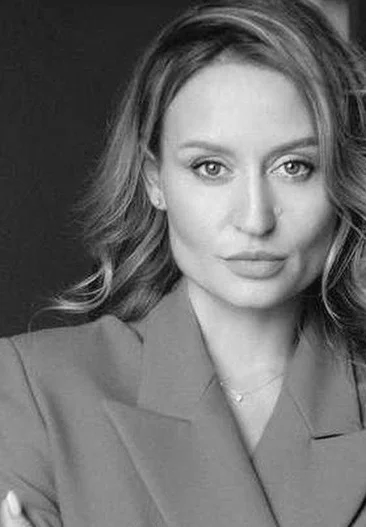
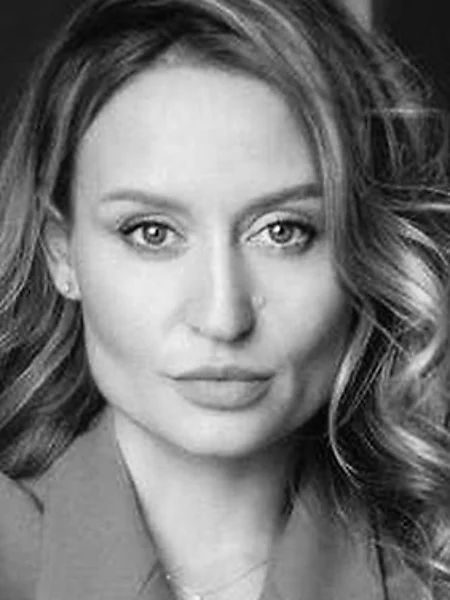
Девичник: квадратная карусель площадки с кадрированием по лицам, «Другие форматы» плитками 2×2, бренды по 3, эксперты на телефоне выше и фото целиком в окне, организаторы — лица в одном масштабе

diff --git a/src/pages/Wellness.tsx b/src/pages/Wellness.tsx
@@ -97,10 +97,10 @@ const lectures = [
 ];
 
 const otherFormats = [
-  { title: "Тренировки", note: "Либидо-фитнес, сильное тело, медитация с поющими чашами", href: "#experts" },
-  { title: "Экспо", note: "Бренды и сервисы заботы о себе", href: "#brands" },
-  { title: "Игристое со стилистом", note: "24 октября, накануне девичника", href: "#october-24" },
-  { title: "Public talk", note: "«Героини нового велнеса»", href: undefined },
+  { icon: Dumbbell, title: "Тренировки", note: "Либидо-фитнес, сильное тело, медитация с поющими чашами", href: "#experts" },
+  { icon: ShoppingBag, title: "Экспо", note: "Бренды и сервисы заботы о себе", href: "#brands" },
+  { icon: Wine, title: "Игристое со стилистом", note: "24 октября, накануне девичника", href: "#october-24" },
+  { icon: Mic, title: "Public talk", note: "«Героини нового велнеса»", href: undefined },
 ];
 
 type Expert = {
@@ -167,11 +167,11 @@ const experts: Expert[] = [
 // Для остальных официальный логотип не нашёлся — аккуратный вордмарк. «Сбер Здоровье» — на всю ширину.
 const brands: { name: string; logo?: string; logoClass?: string }[] = [
   { name: "Абрау-Дюрсо" },
-  { name: "Natura Siberica", logo: naturaSibericaLogo, logoClass: "h-9 md:h-11" },
+  { name: "Natura Siberica", logo: naturaSibericaLogo, logoClass: "h-6 sm:h-9 md:h-11" },
   { name: "Smartlife" },
   { name: "Vita Strada" },
   { name: "DEEP" },
-  { name: "refeel", logo: refeelLogo, logoClass: "h-8 md:h-10" },
+  { name: "refeel", logo: refeelLogo, logoClass: "h-6 sm:h-8 md:h-10" },
   { name: "Сбер Здоровье", logo: sberHealthLogo },
 ];
 const brandCategories = [
@@ -465,26 +465,30 @@ const Wellness = () => {
                 ))}
               </div>
             </div>
-            {/* Другие форматы */}
-            <div>
+            {/* Другие форматы: плитки 2×2, по высоте вровень с лекторием */}
+            <div className="flex flex-col">
               <p className="font-body text-xs uppercase tracking-[0.3em] text-primary mb-4">Другие форматы</p>
-              <div className="divide-y divide-border border-y border-border">
+              <div className="grid grid-cols-2 lg:grid-rows-2 gap-3 flex-1">
                 {otherFormats.map((f, i) => {
                   const inner = (
                     <>
-                      <span>
-                        <span className="block font-display text-2xl text-foreground leading-tight">{f.title}</span>
-                        <span className="block font-body text-sm text-muted-foreground mt-1">{f.note}</span>
+                      <span className="flex items-start justify-between gap-2 mb-auto">
+                        <IconCircle icon={f.icon} />
+                        {f.href && <ArrowRight className="w-4 h-4 text-primary mt-1 transition-transform group-hover:translate-x-1" />}
                       </span>
-                      {f.href && <ArrowRight className="w-4 h-4 text-primary shrink-0 transition-transform group-hover:translate-x-1" />}
+                      <span className="block mt-5">
+                        <span className="block font-display text-lg md:text-xl text-foreground leading-tight">{f.title}</span>
+                        <span className="block font-body text-xs md:text-sm text-muted-foreground mt-1 leading-snug">{f.note}</span>
+                      </span>
                     </>
                   );
+                  const cls = "group h-full flex flex-col bg-card border border-border rounded-2xl p-4 md:p-5 transition-colors";
                   return (
-                    <motion.div key={f.title} {...fadeUp} transition={{ duration: 0.5, delay: 0.06 * i }}>
+                    <motion.div key={f.title} {...fadeUp} transition={{ duration: 0.5, delay: 0.06 * i }} className="h-full">
                       {f.href ? (
-                        <a href={f.href} className="group flex items-center justify-between gap-4 py-5 md:py-6">{inner}</a>
+                        <a href={f.href} className={`${cls} hover:border-primary/40`}>{inner}</a>
                       ) : (
-                        <div className="flex items-center justify-between gap-4 py-5 md:py-6">{inner}</div>
+                        <div className={cls}>{inner}</div>
                       )}
                     </motion.div>
                   );
@@ -504,7 +508,7 @@ const Wellness = () => {
                 <motion.div key={e.surname} {...fadeUp}>
                   {/* Телефон: плитка 2×2, описание — по нажатию */}
                   <button type="button" onClick={() => setOpenExpert(e)} className="sm:hidden block w-full text-left">
-                    <span className="relative block aspect-[3/4] rounded-2xl overflow-hidden bg-muted">
+                    <span className="relative block aspect-[3/5] rounded-2xl overflow-hidden bg-muted">
                       <img src={e.photo} alt={`${e.name} ${e.surname}`} loading="lazy" className="absolute inset-0 w-full h-full object-cover object-top" />
                       <span className="absolute inset-0 bg-gradient-to-t from-warm-black/80 via-transparent to-transparent" />
                       <span className="absolute left-3 right-3 bottom-3">
@@ -543,8 +547,8 @@ const Wellness = () => {
               <DialogContent className="max-w-md w-[calc(100%-2rem)] max-h-[88vh] overflow-y-auto p-0 gap-0 rounded-2xl">
                 {openExpert && (
                   <>
-                    <div className="relative aspect-[4/5]">
-                      <img src={openExpert.photo} alt={`${openExpert.name} ${openExpert.surname}`} className="absolute inset-0 w-full h-full object-cover object-top" />
+                    <div className="relative">
+                      <img src={openExpert.photo} alt={`${openExpert.name} ${openExpert.surname}`} className="block w-full h-auto" />
                       <div className="absolute inset-0 bg-gradient-to-t from-warm-black/80 via-transparent to-transparent" />
                       <div className="absolute left-5 bottom-5">
                         <span className="inline-block font-body text-[10px] uppercase tracking-[0.2em] text-primary-foreground bg-primary rounded-full px-3 py-1 mb-3">Спикер</span>
@@ -578,7 +582,7 @@ const Wellness = () => {
                   (предварительный состав)
                 </p>
               </motion.div>
-              <div className="grid grid-cols-2 sm:grid-cols-4 gap-3 mb-3">
+              <div className="grid grid-cols-3 gap-2 md:gap-3 mb-3">
                 {brands.map((b, i) =>
                   b.name === "Сбер Здоровье" ? (
                     <motion.div
@@ -594,12 +598,12 @@ const Wellness = () => {
                       key={b.name}
                       {...fadeUp}
                       transition={{ duration: 0.4, delay: 0.04 * i }}
-                      className="aspect-[3/2] bg-card border border-border rounded-xl flex items-center justify-center text-center px-3 hover:border-primary/40 transition-colors"
+                      className="aspect-[3/2] bg-card border border-border rounded-xl flex items-center justify-center text-center px-2 md:px-3 hover:border-primary/40 transition-colors"
                     >
                       {b.logo ? (
                         <img src={b.logo} alt={b.name} loading="lazy" className={`${b.logoClass} w-auto max-w-full object-contain`} />
                       ) : (
-                        <span className="font-display text-lg md:text-xl text-foreground tracking-wide">{b.name}</span>
+                        <span className="font-display text-sm sm:text-lg md:text-xl text-foreground tracking-wide leading-tight">{b.name}</span>
                       )}
                     </motion.div>
                   ),

diff --git a/src/components/VenueCarousel.tsx b/src/components/VenueCarousel.tsx
@@ -8,12 +8,12 @@ import soundImg from "@/assets/wellness/venue/sound.webp";
 import marketImg from "@/assets/wellness/venue/market.webp";
 import cafeImg from "@/assets/wellness/venue/cafe.webp";
 
-// Фото — с сайта площадки mestobe.ru
-const spots = [
+// Фото — с сайта площадки mestobe.ru; pos — точка кадрирования, чтобы в квадрате было видно лицо
+const spots: { icon: typeof LayoutGrid; title: string; text: string; img: string; pos?: string }[] = [
   { icon: LayoutGrid, title: "Пространство", text: "3 000 м² для отдыха и восстановления", img: spaceImg },
   { icon: Presentation, title: "Лекторий", text: "Выступления врачей и public talk", img: lectoriumImg },
-  { icon: Dumbbell, title: "Тренировки", text: "Либидо-фитнес и сильное тело", img: fitnessImg },
-  { icon: Waves, title: "Практики", text: "Саунд-медитация с поющими чашами", img: soundImg },
+  { icon: Dumbbell, title: "Тренировки", text: "Либидо-фитнес и сильное тело", img: fitnessImg, pos: "50% 15%" },
+  { icon: Waves, title: "Практики", text: "Саунд-медитация с поющими чашами", img: soundImg, pos: "50% 75%" },
   { icon: ShoppingBag, title: "Бьюти-шоппинг", text: "Бренды, beauty-девайсы и экспо", img: marketImg },
   { icon: Coffee, title: "Фудспот и кофе", text: "Кофе, протеиновые шейки, healthy-бар", img: cafeImg },
 ];
@@ -37,12 +37,12 @@ const VenueCarousel = () => {
 
   return (
     <div
-      className="grid lg:grid-cols-[0.9fr_1.1fr] gap-8 lg:gap-14 items-center"
+      className="grid lg:grid-cols-2 gap-8 lg:gap-14 lg:items-stretch"
       onMouseEnter={() => setPaused(true)}
       onMouseLeave={() => setPaused(false)}
     >
       {/* Пункты: активный подсвечен, клик переключает фото */}
-      <ul className="order-2 lg:order-1 grid grid-cols-3 lg:grid-cols-1 gap-2 lg:gap-1">
+      <ul className="order-2 lg:order-1 grid grid-cols-3 lg:flex lg:flex-col lg:justify-between gap-2 lg:gap-2">
         {spots.map((s, i) => {
           const on = i === active;
           return (
@@ -51,22 +51,22 @@ const VenueCarousel = () => {
                 type="button"
                 onClick={() => go(i)}
                 aria-current={on}
-                className={`relative w-full h-full flex flex-col items-center text-center gap-2 lg:flex-row lg:text-left lg:gap-4 rounded-xl px-2 py-3 lg:px-4 lg:py-4 transition-colors ${
+                className={`relative w-full h-full flex flex-col items-center text-center gap-2 lg:flex-row lg:text-left lg:gap-4 rounded-xl px-2 py-3 lg:px-5 lg:py-5 transition-colors ${
                   on ? "bg-primary/10" : "hover:bg-muted/60"
                 }`}
               >
                 <span
-                  className={`w-10 h-10 lg:w-12 lg:h-12 shrink-0 rounded-full flex items-center justify-center transition-colors duration-500 ${
+                  className={`w-10 h-10 lg:w-14 lg:h-14 shrink-0 rounded-full flex items-center justify-center transition-colors duration-500 ${
                     on ? "bg-primary text-primary-foreground" : "bg-primary/10 text-primary"
                   }`}
                 >
-                  <s.icon className="w-4 h-4 lg:w-5 lg:h-5" />
+                  <s.icon className="w-4 h-4 lg:w-6 lg:h-6" />
                 </span>
                 <span className="min-w-0">
-                  <span className={`block font-display text-sm lg:text-xl leading-tight transition-colors ${on ? "text-foreground" : "text-foreground/70"}`}>
+                  <span className={`block font-display text-sm lg:text-2xl leading-tight transition-colors ${on ? "text-foreground" : "text-foreground/70"}`}>
                     {s.title}
                   </span>
-                  <span className="hidden lg:block font-body text-xs text-muted-foreground mt-0.5">{s.text}</span>
+                  <span className="hidden lg:block font-body text-sm text-muted-foreground mt-1">{s.text}</span>
                 </span>
                 {/* полоска прогресса автопрокрутки */}
                 {on && (
@@ -86,7 +86,7 @@ const VenueCarousel = () => {
 
       {/* Фото */}
       <div
-        className="order-1 lg:order-2 relative aspect-[4/5] sm:aspect-[4/3] lg:aspect-[4/5] rounded-2xl overflow-hidden bg-muted"
+        className="order-1 lg:order-2 relative aspect-[4/5] sm:aspect-[4/3] lg:aspect-square rounded-2xl overflow-hidden bg-muted"
         onTouchStart={(e) => (touchX.current = e.touches[0].clientX)}
         onTouchEnd={(e) => {
           if (touchX.current === null) return;
@@ -101,6 +101,7 @@ const VenueCarousel = () => {
             src={spot.img}
             alt={`«Место быть» — ${spot.title.toLowerCase()}`}
             className="absolute inset-0 w-full h-full object-cover"
+            style={{ objectPosition: spot.pos ?? "50% 50%" }}
             initial={{ opacity: 0, scale: 1.06 }}
             animate={{ opacity: 1, scale: 1 }}
             exit={{ opacity: 0 }}
